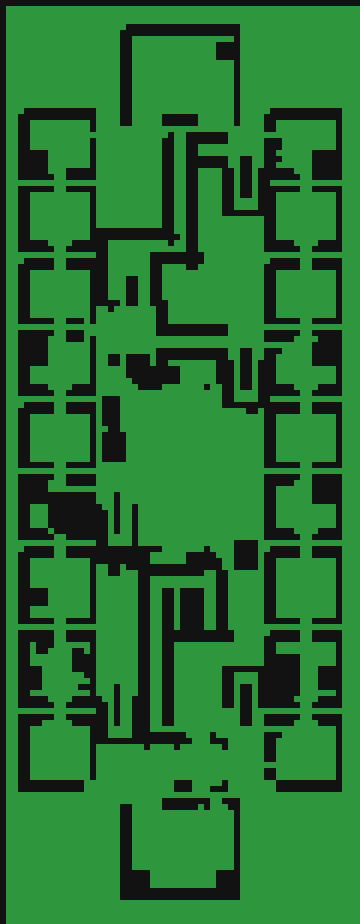
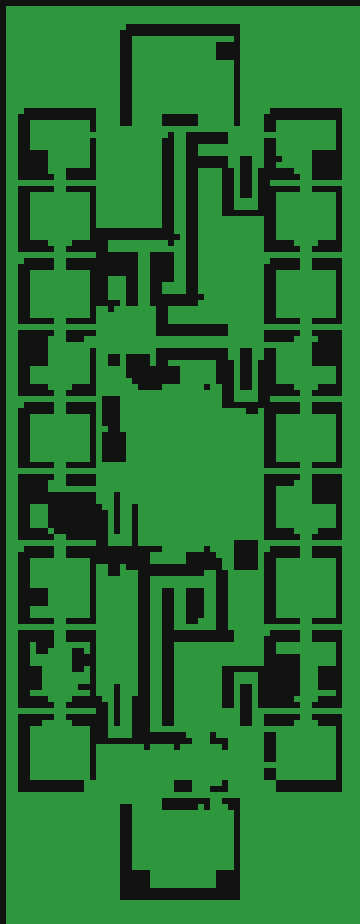
chore(lajes): re-deriva grafite, docs e blocos gerados apos a rodada r2
A geometria do lajes mudou (porta de laje, consolidacao dos barracos), entao o
layout de grafite foi regerado — 'npm run grafite lajes', cobrado pela F2 do
graffiti-layout-check.

Ainda:
  · docs/arch regerados (docs:check / arch:check);
  · skills:sync (a .agents/skills estava fora do lock — vermelho preexistente);
  · a M1 do mapa-id-check reprovava o lajes-evidence-capture por causa do id
    ANTIGO citado num comentario historico. O comentario continua contando o
    mesmo incidente, sem o literal: a regua varre tools/ como codigo vivo, e
    reescrever o passado seria falsificar o que aconteceu (por isso a propria M1
    ja isenta CHANGELOG/KNOWN-BUGS/docs).

Agent: Claude Code

diff --git a/public/js/graffiti_layout.js b/public/js/graffiti_layout.js
@@ -20,4 +20,4 @@ export const GRAFITE = {"ferro_velho":{"arquivos":["peca-bolha.png","tag-selvage
 
 /* IMPRESSÃO DIGITAL DAS ENTRADAS (issue #82) — GERADA junto com o layout, ver
    tools/eval/graffiti-fingerprint.mjs. Cobrada por tools/eval/graffiti-layout-check.mjs. */
-export const GRAFITE_FP = {"pass":"101826ab448fb518","maps":{"praca_poderes":"8df6e066c8fb326b","piscina_treta":"3976e55620a2f273","loja_h":"4a25d99f19b040d4","ferro_velho":"53f2528495764aeb","quebrada":"1eda70f779199109","escadao":"6bb83f408dee7d2a","campomorro":"6d77de54740e982c","lajes":"3a7e584bbd3d06a1","corrego":"c99b9a7cd2712db9","mansao":"42a5f138c7b9a806"}};
+export const GRAFITE_FP = {"pass":"101826ab448fb518","maps":{"praca_poderes":"8df6e066c8fb326b","piscina_treta":"3976e55620a2f273","loja_h":"4a25d99f19b040d4","ferro_velho":"53f2528495764aeb","quebrada":"1eda70f779199109","escadao":"6bb83f408dee7d2a","campomorro":"6d77de54740e982c","lajes":"86c81e232ba0aeb4","corrego":"c99b9a7cd2712db9","mansao":"42a5f138c7b9a806"}};

diff --git a/docs/docs/comecando.md b/docs/docs/comecando.md
@@ -39,7 +39,7 @@ esta página envelhecia no primeiro commit — ver
 
 | O que | Quanto | Onde confere |
 |---|---:|---|
-| Código do jogo | 41.378 linhas em 59 arquivos | `git ls-files public/js/*.js \| xargs wc -l` |
+| Código do jogo | 41.707 linhas em 59 arquivos | `git ls-files public/js/*.js \| xargs wc -l` |
 | `game.js` | **7.260** linhas | `wc -l public/js/game.js` |
 | `main.js` | 2.812 linhas | `wc -l public/js/main.js` |
 | Armas com GLB | 27 | `git ls-files 'public/models/weapons/*.glb' \| wc -l` |
@@ -49,7 +49,7 @@ esta página envelhecia no primeiro commit — ver
 | Personagens jogáveis | 62, em 10 facções | array `CHARACTERS` de `characters.js` |
 | Mapas no registro | 17 | objeto `MAPS` de `maps.js` |
 | Arnêses visuais em HTML | 16 | `git ls-files 'public/*.html' \| wc -l` |
-| Scripts do arnês | 303 | `git ls-files 'tools/eval/*.mjs' 'tools/eval/*.py' \| wc -l` |
+| Scripts do arnês | 304 | `git ls-files 'tools/eval/*.mjs' 'tools/eval/*.py' \| wc -l` |
 | Scripts de pipeline | 77 | `git ls-files 'tools/*.mjs' \| wc -l` |
 | Tarefas de entrada escritas | 26 | `git ls-files 'docs/issues/[0-9]*.md' \| wc -l` |
 | Versão | `2.0.0-alpha.184` | `public/js/version.js` e `package.json` (batem) |
@@ -228,7 +228,7 @@ Os mapas registrados hoje, e em que modo cada um abre:
 | `quebrada` | Quebrada (Rua do Baile) | **captura** | `map_quebrada.js` | 1.656 |
 | `escadao` | Escadão (Morro) | **captura** | `map_escadao.js` | 813 |
 | `campomorro` | Campo do Morro | **captura** | `map_campomorro.js` | 713 |
-| `lajes` | Lajes (Comunidade) | **captura** | `map_lajes_authored.js` | 1.482 |
+| `lajes` | Lajes (Comunidade) | **captura** | `map_lajes_authored.js` | 1.640 |
 | `corrego` | Córrego (Favela de SP) | **captura** | `map_corrego.js` | 1.258 |
 | `mansao` | Mansão do Joá | **captura** | `map_mansao.js` | 955 |
 | `posto_treta` | Posto da Treta | **captura** | `map_posto.js` | 506 |
@@ -280,10 +280,10 @@ E os dois quality gates, com a lista exata do que cada um roda — direto do `pa
 {/* BEGIN:GERADO:scripts — não edite à mão, rode `npm run docs` */}
 
 ```bash
-npm run check:fast   # node tools/eval/runner.mjs syntax eval:release eval:telemetry eval:identity eval:error-console eval:error-origin eval:webgl eval:webglguard eval:maprotate eval:shaderlog eval:shaderbudget eval:botbrain eval:prune eval:vminspect eval:faccao eval:mapid eval:mapjson eval:mapcontrato eval:ambience-registry eval:parquewheel eval:redesign eval:matchoptions eval:charvoice eval:screenquery docs:check arch:check audio:check feet:check eval:vmlabhud eval:ctfhud eval:pause eval:ctfround eval:ctfwin eval:spawn eval:regen eval:pegada eval:dmgdir eval:ctflabels anims:check anims:merge:check walls:check media:check menuwalls:check travessao:check eval:medianet eval:posters eval:grafitelayout eval:simclock eval:backendhints changelog:check eval:velhooeste eval:penitenciaria eval:charhard eval:charpbr eval:motoca-visual eval:camera-grip eval:pilot-system eval:pilot-grip eval:char-thumbnail eval:asset-integrity eval:gltf-validator eval:props-acervo eval:propsuv1 eval:character-voice eval:audio-pack-character-voice eval:cinematic-ui eval:grafite-editorial eval:map-source eval:map-new eval:campo-contract eval:lajes-rooftop eval:lajes-visual eval:lajes-authored eval:lajes-spatial eval:lajes-gap eval:lajes-circuito eval:lajes-antitrap eval:mansao-water eval:mansao-garden eval:corrego-contract eval:corrego-water eval:look eval:mansao-ocean eval:wind eval:softparticles eval:escala-favela eval:escadao-contract eval:slice-abilities eval:faction-registry eval:mapview eval:devport spec:check skills:check eval:pickuparma eval:mutcega eval:autofix eval:deploygate eval:portaointeiro eval:wfsecret eval:comentario eval:fixture eval:preload eval:docsautoria eval:replaycam
+npm run check:fast   # node tools/eval/runner.mjs syntax eval:release eval:telemetry eval:identity eval:error-console eval:error-origin eval:webgl eval:webglguard eval:maprotate eval:shaderlog eval:shaderbudget eval:botbrain eval:prune eval:vminspect eval:faccao eval:mapid eval:mapjson eval:mapcontrato eval:ambience-registry eval:parquewheel eval:redesign eval:matchoptions eval:charvoice eval:screenquery docs:check arch:check audio:check feet:check eval:vmlabhud eval:ctfhud eval:pause eval:ctfround eval:ctfwin eval:spawn eval:regen eval:pegada eval:dmgdir eval:ctflabels anims:check anims:merge:check walls:check media:check menuwalls:check travessao:check eval:medianet eval:posters eval:grafitelayout eval:simclock eval:backendhints changelog:check eval:velhooeste eval:penitenciaria eval:charhard eval:charpbr eval:motoca-visual eval:camera-grip eval:pilot-system eval:pilot-grip eval:char-thumbnail eval:asset-integrity eval:gltf-validator eval:props-acervo eval:propsuv1 eval:character-voice eval:audio-pack-character-voice eval:cinematic-ui eval:grafite-editorial eval:map-source eval:map-new eval:campo-contract eval:lajes-rooftop eval:lajes-visual eval:lajes-authored eval:lajes-spatial eval:lajes-gap eval:lajes-circuito eval:lajes-antitrap eval:lajes-bots eval:mansao-water eval:mansao-garden eval:corrego-contract eval:corrego-water eval:look eval:mansao-ocean eval:wind eval:softparticles eval:escala-favela eval:escadao-contract eval:slice-abilities eval:faction-registry eval:mapview eval:devport spec:check skills:check eval:pickuparma eval:mutcega eval:autofix eval:deploygate eval:portaointeiro eval:wfsecret eval:comentario eval:fixture eval:preload eval:docsautoria eval:replaycam
 ```
 
-`package.json` tem **187 scripts**; o motivo de cada um mora em `SCRIPTS.md` (migrado das chaves `//nome` em 18/08/2026) — é onde está o porquê.
+`package.json` tem **188 scripts**; o motivo de cada um mora em `SCRIPTS.md` (migrado das chaves `//nome` em 18/08/2026) — é onde está o porquê.
 
 > Bloco gerado por `node tools/gen-docs.mjs`. Fonte: `node -p "Object.keys(require('./package.json').scripts)"`
 

diff --git a/docs/i18n/en/docusaurus-plugin-content-docs/current/comecando.md b/docs/i18n/en/docusaurus-plugin-content-docs/current/comecando.md
@@ -41,7 +41,7 @@ this page was aging at the very first commit — see
 
 | What | How much | Where to check |
 |---|---:|---|
-| Game code | 41,378 lines in 59 files | `git ls-files public/js/*.js \| xargs wc -l` |
+| Game code | 41,707 lines in 59 files | `git ls-files public/js/*.js \| xargs wc -l` |
 | `game.js` | **7,260** lines | `wc -l public/js/game.js` |
 | `main.js` | 2,812 lines | `wc -l public/js/main.js` |
 | Weapons with GLB | 27 | `git ls-files 'public/models/weapons/*.glb' \| wc -l` |
@@ -51,7 +51,7 @@ this page was aging at the very first commit — see
 | Playable characters | 62, in 10 factions | `CHARACTERS` array in `characters.js` |
 | Maps in the registry | 17 | `MAPS` object in `maps.js` |
 | Visual harnesses in HTML | 16 | `git ls-files 'public/*.html' \| wc -l` |
-| Harness scripts | 303 | `git ls-files 'tools/eval/*.mjs' 'tools/eval/*.py' \| wc -l` |
+| Harness scripts | 304 | `git ls-files 'tools/eval/*.mjs' 'tools/eval/*.py' \| wc -l` |
 | Pipeline scripts | 77 | `git ls-files 'tools/*.mjs' \| wc -l` |
 | Written entry tasks | 26 | `git ls-files 'docs/issues/[0-9]*.md' \| wc -l` |
 | Version | `2.0.0-alpha.184` | `public/js/version.js` and `package.json` (match) |
@@ -230,7 +230,7 @@ The maps registered today, and which mode each one opens in:
 | `quebrada` | Quebrada (Rua do Baile) | **capture** | `map_quebrada.js` | 1,656 |
 | `escadao` | Escadão (Morro) | **capture** | `map_escadao.js` | 813 |
 | `campomorro` | Campo do Morro | **capture** | `map_campomorro.js` | 713 |
-| `lajes` | Lajes (Comunidade) | **capture** | `map_lajes_authored.js` | 1,482 |
+| `lajes` | Lajes (Comunidade) | **capture** | `map_lajes_authored.js` | 1,640 |
 | `corrego` | Córrego (Favela de SP) | **capture** | `map_corrego.js` | 1,258 |
 | `mansao` | Mansão do Joá | **capture** | `map_mansao.js` | 955 |
 | `posto_treta` | Posto da Treta | **capture** | `map_posto.js` | 506 |
@@ -282,10 +282,10 @@ And the two gates, with the exact list of what each one runs — straight from `
 {/* BEGIN:GERADO:scripts — não edite à mão, rode `npm run docs` */}
 
 ```bash
-npm run check:fast   # node tools/eval/runner.mjs syntax eval:release eval:telemetry eval:identity eval:error-console eval:error-origin eval:webgl eval:webglguard eval:maprotate eval:shaderlog eval:shaderbudget eval:botbrain eval:prune eval:vminspect eval:faccao eval:mapid eval:mapjson eval:mapcontrato eval:ambience-registry eval:parquewheel eval:redesign eval:matchoptions eval:charvoice eval:screenquery docs:check arch:check audio:check feet:check eval:vmlabhud eval:ctfhud eval:pause eval:ctfround eval:ctfwin eval:spawn eval:regen eval:pegada eval:dmgdir eval:ctflabels anims:check anims:merge:check walls:check media:check menuwalls:check travessao:check eval:medianet eval:posters eval:grafitelayout eval:simclock eval:backendhints changelog:check eval:velhooeste eval:penitenciaria eval:charhard eval:charpbr eval:motoca-visual eval:camera-grip eval:pilot-system eval:pilot-grip eval:char-thumbnail eval:asset-integrity eval:gltf-validator eval:props-acervo eval:propsuv1 eval:character-voice eval:audio-pack-character-voice eval:cinematic-ui eval:grafite-editorial eval:map-source eval:map-new eval:campo-contract eval:lajes-rooftop eval:lajes-visual eval:lajes-authored eval:lajes-spatial eval:lajes-gap eval:lajes-circuito eval:lajes-antitrap eval:mansao-water eval:mansao-garden eval:corrego-contract eval:corrego-water eval:look eval:mansao-ocean eval:wind eval:softparticles eval:escala-favela eval:escadao-contract eval:slice-abilities eval:faction-registry eval:mapview eval:devport spec:check skills:check eval:pickuparma eval:mutcega eval:autofix eval:deploygate eval:portaointeiro eval:wfsecret eval:comentario eval:fixture eval:preload eval:docsautoria eval:replaycam
+npm run check:fast   # node tools/eval/runner.mjs syntax eval:release eval:telemetry eval:identity eval:error-console eval:error-origin eval:webgl eval:webglguard eval:maprotate eval:shaderlog eval:shaderbudget eval:botbrain eval:prune eval:vminspect eval:faccao eval:mapid eval:mapjson eval:mapcontrato eval:ambience-registry eval:parquewheel eval:redesign eval:matchoptions eval:charvoice eval:screenquery docs:check arch:check audio:check feet:check eval:vmlabhud eval:ctfhud eval:pause eval:ctfround eval:ctfwin eval:spawn eval:regen eval:pegada eval:dmgdir eval:ctflabels anims:check anims:merge:check walls:check media:check menuwalls:check travessao:check eval:medianet eval:posters eval:grafitelayout eval:simclock eval:backendhints changelog:check eval:velhooeste eval:penitenciaria eval:charhard eval:charpbr eval:motoca-visual eval:camera-grip eval:pilot-system eval:pilot-grip eval:char-thumbnail eval:asset-integrity eval:gltf-validator eval:props-acervo eval:propsuv1 eval:character-voice eval:audio-pack-character-voice eval:cinematic-ui eval:grafite-editorial eval:map-source eval:map-new eval:campo-contract eval:lajes-rooftop eval:lajes-visual eval:lajes-authored eval:lajes-spatial eval:lajes-gap eval:lajes-circuito eval:lajes-antitrap eval:lajes-bots eval:mansao-water eval:mansao-garden eval:corrego-contract eval:corrego-water eval:look eval:mansao-ocean eval:wind eval:softparticles eval:escala-favela eval:escadao-contract eval:slice-abilities eval:faction-registry eval:mapview eval:devport spec:check skills:check eval:pickuparma eval:mutcega eval:autofix eval:deploygate eval:portaointeiro eval:wfsecret eval:comentario eval:fixture eval:preload eval:docsautoria eval:replaycam
 ```
 
-`package.json` has **187 scripts**; the reason behind each one lives in `SCRIPTS.md`.
+`package.json` has **188 scripts**; the reason behind each one lives in `SCRIPTS.md`.
 
 > Block generated by `node tools/gen-docs.mjs`. Source: `node -p "Object.keys(require('./package.json').scripts)"`
 

diff --git a/ARCH.generated.md b/ARCH.generated.md
@@ -8,9 +8,9 @@ Números atuais das zonas, do quality gate e do `package.json`:
 
 | Zona | O que é | Tamanho medido | Regra |
 |---|---|---|---|
-| `public/` | o **jogo** | 59 arquivos `.js`, 41.378 linhas · Three.js `r160` vendorizado | ES modules servidos crus, **zero build**, sem dependência de runtime |
+| `public/` | o **jogo** | 59 arquivos `.js`, 41.707 linhas · Three.js `r160` vendorizado | ES modules servidos crus, **zero build**, sem dependência de runtime |
 | `src/` | o **site** | 18 páginas `.astro`, 21 rotas `/api` · Astro `^7.1.1` | framework é bem-vindo; `service_role` só no servidor |
-| `tools/` | o **arnês** | 303 scripts em `tools/eval/`, 77 em `tools/` | node puro: sobe o jogo real sem browser |
+| `tools/` | o **arnês** | 304 scripts em `tools/eval/`, 77 em `tools/` | node puro: sobe o jogo real sem browser |
 
 **Não existe `public/index.html`.** O HTML do jogo é `src/pages/index.astro`, servido na rota `/`. Servir `public/` estaticamente entrega os arnêses visuais, **não o jogo** — é a pegadinha que custa a primeira hora de todo mundo.
 
@@ -25,10 +25,10 @@ Comandos e scripts atuais do quality gate:
 <!-- BEGIN:GERADO:scripts — não edite à mão, rode `npm run docs` -->
 
 ```bash
-npm run check:fast   # node tools/eval/runner.mjs syntax eval:release eval:telemetry eval:identity eval:error-console eval:error-origin eval:webgl eval:webglguard eval:maprotate eval:shaderlog eval:shaderbudget eval:botbrain eval:prune eval:vminspect eval:faccao eval:mapid eval:mapjson eval:mapcontrato eval:ambience-registry eval:parquewheel eval:redesign eval:matchoptions eval:charvoice eval:screenquery docs:check arch:check audio:check feet:check eval:vmlabhud eval:ctfhud eval:pause eval:ctfround eval:ctfwin eval:spawn eval:regen eval:pegada eval:dmgdir eval:ctflabels anims:check anims:merge:check walls:check media:check menuwalls:check travessao:check eval:medianet eval:posters eval:grafitelayout eval:simclock eval:backendhints changelog:check eval:velhooeste eval:penitenciaria eval:charhard eval:charpbr eval:motoca-visual eval:camera-grip eval:pilot-system eval:pilot-grip eval:char-thumbnail eval:asset-integrity eval:gltf-validator eval:props-acervo eval:propsuv1 eval:character-voice eval:audio-pack-character-voice eval:cinematic-ui eval:grafite-editorial eval:map-source eval:map-new eval:campo-contract eval:lajes-rooftop eval:lajes-visual eval:lajes-authored eval:lajes-spatial eval:lajes-gap eval:lajes-circuito eval:lajes-antitrap eval:mansao-water eval:mansao-garden eval:corrego-contract eval:corrego-water eval:look eval:mansao-ocean eval:wind eval:softparticles eval:escala-favela eval:escadao-contract eval:slice-abilities eval:faction-registry eval:mapview eval:devport spec:check skills:check eval:pickuparma eval:mutcega eval:autofix eval:deploygate eval:portaointeiro eval:wfsecret eval:comentario eval:fixture eval:preload eval:docsautoria eval:replaycam
+npm run check:fast   # node tools/eval/runner.mjs syntax eval:release eval:telemetry eval:identity eval:error-console eval:error-origin eval:webgl eval:webglguard eval:maprotate eval:shaderlog eval:shaderbudget eval:botbrain eval:prune eval:vminspect eval:faccao eval:mapid eval:mapjson eval:mapcontrato eval:ambience-registry eval:parquewheel eval:redesign eval:matchoptions eval:charvoice eval:screenquery docs:check arch:check audio:check feet:check eval:vmlabhud eval:ctfhud eval:pause eval:ctfround eval:ctfwin eval:spawn eval:regen eval:pegada eval:dmgdir eval:ctflabels anims:check anims:merge:check walls:check media:check menuwalls:check travessao:check eval:medianet eval:posters eval:grafitelayout eval:simclock eval:backendhints changelog:check eval:velhooeste eval:penitenciaria eval:charhard eval:charpbr eval:motoca-visual eval:camera-grip eval:pilot-system eval:pilot-grip eval:char-thumbnail eval:asset-integrity eval:gltf-validator eval:props-acervo eval:propsuv1 eval:character-voice eval:audio-pack-character-voice eval:cinematic-ui eval:grafite-editorial eval:map-source eval:map-new eval:campo-contract eval:lajes-rooftop eval:lajes-visual eval:lajes-authored eval:lajes-spatial eval:lajes-gap eval:lajes-circuito eval:lajes-antitrap eval:lajes-bots eval:mansao-water eval:mansao-garden eval:corrego-contract eval:corrego-water eval:look eval:mansao-ocean eval:wind eval:softparticles eval:escala-favela eval:escadao-contract eval:slice-abilities eval:faction-registry eval:mapview eval:devport spec:check skills:check eval:pickuparma eval:mutcega eval:autofix eval:deploygate eval:portaointeiro eval:wfsecret eval:comentario eval:fixture eval:preload eval:docsautoria eval:replaycam
 ```
 
-`package.json` tem **187 scripts**; o motivo de cada um mora em `SCRIPTS.md` (migrado das chaves `//nome` em 18/08/2026) — é onde está o porquê.
+`package.json` tem **188 scripts**; o motivo de cada um mora em `SCRIPTS.md` (migrado das chaves `//nome` em 18/08/2026) — é onde está o porquê.
 
 > Bloco gerado por `node tools/gen-docs.mjs`. Fonte: `node -p "Object.keys(require('./package.json').scripts)"`
 

diff --git a/README.md b/README.md
@@ -34,7 +34,7 @@ contra bots, direto na aba. Sem download, sem instalação, sem cadastro.
 
 | O que | Quanto | Onde confere |
 |---|---:|---|
-| Código do jogo | 41.378 linhas em 59 arquivos | `git ls-files public/js/*.js \| xargs wc -l` |
+| Código do jogo | 41.707 linhas em 59 arquivos | `git ls-files public/js/*.js \| xargs wc -l` |
 | `game.js` | **7.260** linhas | `wc -l public/js/game.js` |
 | `main.js` | 2.812 linhas | `wc -l public/js/main.js` |
 | Armas com GLB | 27 | `git ls-files 'public/models/weapons/*.glb' \| wc -l` |
@@ -44,7 +44,7 @@ contra bots, direto na aba. Sem download, sem instalação, sem cadastro.
 | Personagens jogáveis | 62, em 10 facções | array `CHARACTERS` de `characters.js` |
 | Mapas no registro | 17 | objeto `MAPS` de `maps.js` |
 | Arnêses visuais em HTML | 16 | `git ls-files 'public/*.html' \| wc -l` |
-| Scripts do arnês | 303 | `git ls-files 'tools/eval/*.mjs' 'tools/eval/*.py' \| wc -l` |
+| Scripts do arnês | 304 | `git ls-files 'tools/eval/*.mjs' 'tools/eval/*.py' \| wc -l` |
 | Scripts de pipeline | 77 | `git ls-files 'tools/*.mjs' \| wc -l` |
 | Tarefas de entrada escritas | 26 | `git ls-files 'docs/issues/[0-9]*.md' \| wc -l` |
 | Versão | `2.0.0-alpha.184` | `public/js/version.js` e `package.json` (batem) |
@@ -313,7 +313,7 @@ Os mapas registrados, e em que modo cada um abre:
 | `quebrada` | Quebrada (Rua do Baile) | **captura** | `map_quebrada.js` | 1.656 |
 | `escadao` | Escadão (Morro) | **captura** | `map_escadao.js` | 813 |
 | `campomorro` | Campo do Morro | **captura** | `map_campomorro.js` | 713 |
-| `lajes` | Lajes (Comunidade) | **captura** | `map_lajes_authored.js` | 1.482 |
+| `lajes` | Lajes (Comunidade) | **captura** | `map_lajes_authored.js` | 1.640 |
 | `corrego` | Córrego (Favela de SP) | **captura** | `map_corrego.js` | 1.258 |
 | `mansao` | Mansão do Joá | **captura** | `map_mansao.js` | 955 |
 | `posto_treta` | Posto da Treta | **captura** | `map_posto.js` | 506 |

diff --git a/docs/docs/stack.md b/docs/docs/stack.md
@@ -127,7 +127,7 @@ hipotético:
 | **Meshy** | props 3D por texto (alternativa) e rig | `tools/gen-asset.mjs --provider meshy` | `MESHY_API_KEY` |
 | **OpenRouter** | arte 2D (cartaz de facção, wallpaper, splash) | `tools/gen-image.mjs` | `OPENROUTER_API_KEY` |
 
-`mint-assets.json` registra **65 assets** gerados via Mint (19 `openrouter-image-concept` · 2 `openrouter-concept-tripo-blender-model` · 5 `imagegen-concept` · 30 `mint-model` · 2 `tripo3d-task` · 2 `openrouter-concept-meshy-model` · 5 `mint-asset-pack`), cada um com `assetId`, `chatUrl` e notas do que deu errado na tentativa anterior.
+`mint-assets.json` registra **66 assets** gerados via Mint (19 `openrouter-image-concept` · 2 `openrouter-concept-tripo-blender-model` · 5 `imagegen-concept` · 31 `mint-model` · 2 `tripo3d-task` · 2 `openrouter-concept-meshy-model` · 5 `mint-asset-pack`), cada um com `assetId`, `chatUrl` e notas do que deu errado na tentativa anterior.
 
 As três chaves de API vivem em `.env` na raiz — **gitignored, modo 600, nunca em `argv`** (argv vaza no `ps` de qualquer processo da máquina). Sem elas o jogo roda igual: o pipeline de geração é offline, o resultado é que entra no repositório.
 

diff --git a/docs/docs/quality-gates.md b/docs/docs/quality-gates.md
@@ -15,7 +15,7 @@ PR (`.github/workflows/ci.yml`).
 {/* BEGIN:GERADO:invariantes — não edite à mão, rode `npm run docs` */}
 
 - `tools/eval/invariants.mjs`: **2.281 linhas**, **65 identificadores de invariante declarados** (`put()`), dos quais **28** têm caminho de `skip()` declarado.
-- O arnês inteiro são **303 scripts** em `tools/eval/` (`.mjs` + `.py`), mais **77 scripts** de pipeline em `tools/`.
+- O arnês inteiro são **304 scripts** em `tools/eval/` (`.mjs` + `.py`), mais **77 scripts** de pipeline em `tools/`.
 - Quantas invariantes rodam como **críticas** numa execução **não é derivável do fonte**: depende de qual insumo existe na máquina (o JSON do auditor de viewmodel, um GLB, uma pasta de anims). Esse número só sai rodando o quality gate — e o lugar dele é o cabeçalho do `KNOWN-BUGS.md`, atualizado com saída real.
 
 Reproduza:

diff --git a/docs/i18n/en/docusaurus-plugin-content-docs/current/stack.md b/docs/i18n/en/docusaurus-plugin-content-docs/current/stack.md
@@ -126,7 +126,7 @@ hypothetical one:
 | **Meshy** | 3D props and rigging | `tools/gen-asset.mjs --provider meshy` | `MESHY_API_KEY` |
 | **OpenRouter** | 2D art | `tools/gen-image.mjs` | `OPENROUTER_API_KEY` |
 
-`mint-assets.json` records **65 assets** generated through Mint (19 `openrouter-image-concept` · 2 `openrouter-concept-tripo-blender-model` · 5 `imagegen-concept` · 30 `mint-model` · 2 `tripo3d-task` · 2 `openrouter-concept-meshy-model` · 5 `mint-asset-pack`).
+`mint-assets.json` records **66 assets** generated through Mint (19 `openrouter-image-concept` · 2 `openrouter-concept-tripo-blender-model` · 5 `imagegen-concept` · 31 `mint-model` · 2 `tripo3d-task` · 2 `openrouter-concept-meshy-model` · 5 `mint-asset-pack`).
 
 API keys live in the gitignored root `.env`; generation is offline and the game runs without them.
 

diff --git a/docs/i18n/en/docusaurus-plugin-content-docs/current/colaborar.md b/docs/i18n/en/docusaurus-plugin-content-docs/current/colaborar.md
@@ -258,7 +258,7 @@ The registry, generated from the `MAPS` of `public/js/maps.js`:
 | `quebrada` | Quebrada (Rua do Baile) | **capture** | `map_quebrada.js` | 1,656 |
 | `escadao` | Escadão (Morro) | **capture** | `map_escadao.js` | 813 |
 | `campomorro` | Campo do Morro | **capture** | `map_campomorro.js` | 713 |
-| `lajes` | Lajes (Comunidade) | **capture** | `map_lajes_authored.js` | 1,482 |
+| `lajes` | Lajes (Comunidade) | **capture** | `map_lajes_authored.js` | 1,640 |
 | `corrego` | Córrego (Favela de SP) | **capture** | `map_corrego.js` | 1,258 |
 | `mansao` | Mansão do Joá | **capture** | `map_mansao.js` | 955 |
 | `posto_treta` | Posto da Treta | **capture** | `map_posto.js` | 506 |

diff --git a/docs/docs/colaborar.md b/docs/docs/colaborar.md
@@ -255,7 +255,7 @@ O registro, gerado do `MAPS` de `public/js/maps.js`:
 | `quebrada` | Quebrada (Rua do Baile) | **captura** | `map_quebrada.js` | 1.656 |
 | `escadao` | Escadão (Morro) | **captura** | `map_escadao.js` | 813 |
 | `campomorro` | Campo do Morro | **captura** | `map_campomorro.js` | 713 |
-| `lajes` | Lajes (Comunidade) | **captura** | `map_lajes_authored.js` | 1.482 |
+| `lajes` | Lajes (Comunidade) | **captura** | `map_lajes_authored.js` | 1.640 |
 | `corrego` | Córrego (Favela de SP) | **captura** | `map_corrego.js` | 1.258 |
 | `mansao` | Mansão do Joá | **captura** | `map_mansao.js` | 955 |
 | `posto_treta` | Posto da Treta | **captura** | `map_posto.js` | 506 |

diff --git a/docs/docs/arquitetura.md b/docs/docs/arquitetura.md
@@ -70,7 +70,7 @@ Tamanho dos arquivos que o `gen-arch.mjs` indexa — bloco gerado, regenerado po
 | `public/js/weapons.js` | 356 |
 | `public/js/springs.js` | 260 |
 
-Total de `public/js/`: **41.378 linhas em 59 arquivos**. O índice símbolo→linha, com a tabela de conflito, é outro bloco gerado: `tools/eval/ARCH.md` (`npm run arch`).
+Total de `public/js/`: **41.707 linhas em 59 arquivos**. O índice símbolo→linha, com a tabela de conflito, é outro bloco gerado: `tools/eval/ARCH.md` (`npm run arch`).
 
 > Bloco gerado por `node tools/gen-docs.mjs`. Fonte: ``git ls-files public/js/*.js | xargs wc -l``
 

diff --git a/docs/i18n/en/docusaurus-plugin-content-docs/current/quality-gates.md b/docs/i18n/en/docusaurus-plugin-content-docs/current/quality-gates.md
@@ -18,7 +18,7 @@ PR (`.github/workflows/ci.yml`).
 {/* BEGIN:GERADO:invariantes — não edite à mão, rode `npm run docs` */}
 
 - `tools/eval/invariants.mjs`: **2,281 lines**, **65 declared invariant identifiers**, with **28** declared `skip()` paths.
-- The harness contains **303 scripts** in `tools/eval/`, plus **77 pipeline scripts** in `tools/`.
+- The harness contains **304 scripts** in `tools/eval/`, plus **77 pipeline scripts** in `tools/`.
 - The number of critical checks in one run depends on the inputs present on that machine; dated results belong in `KNOWN-BUGS.md`.
 
 ```bash
